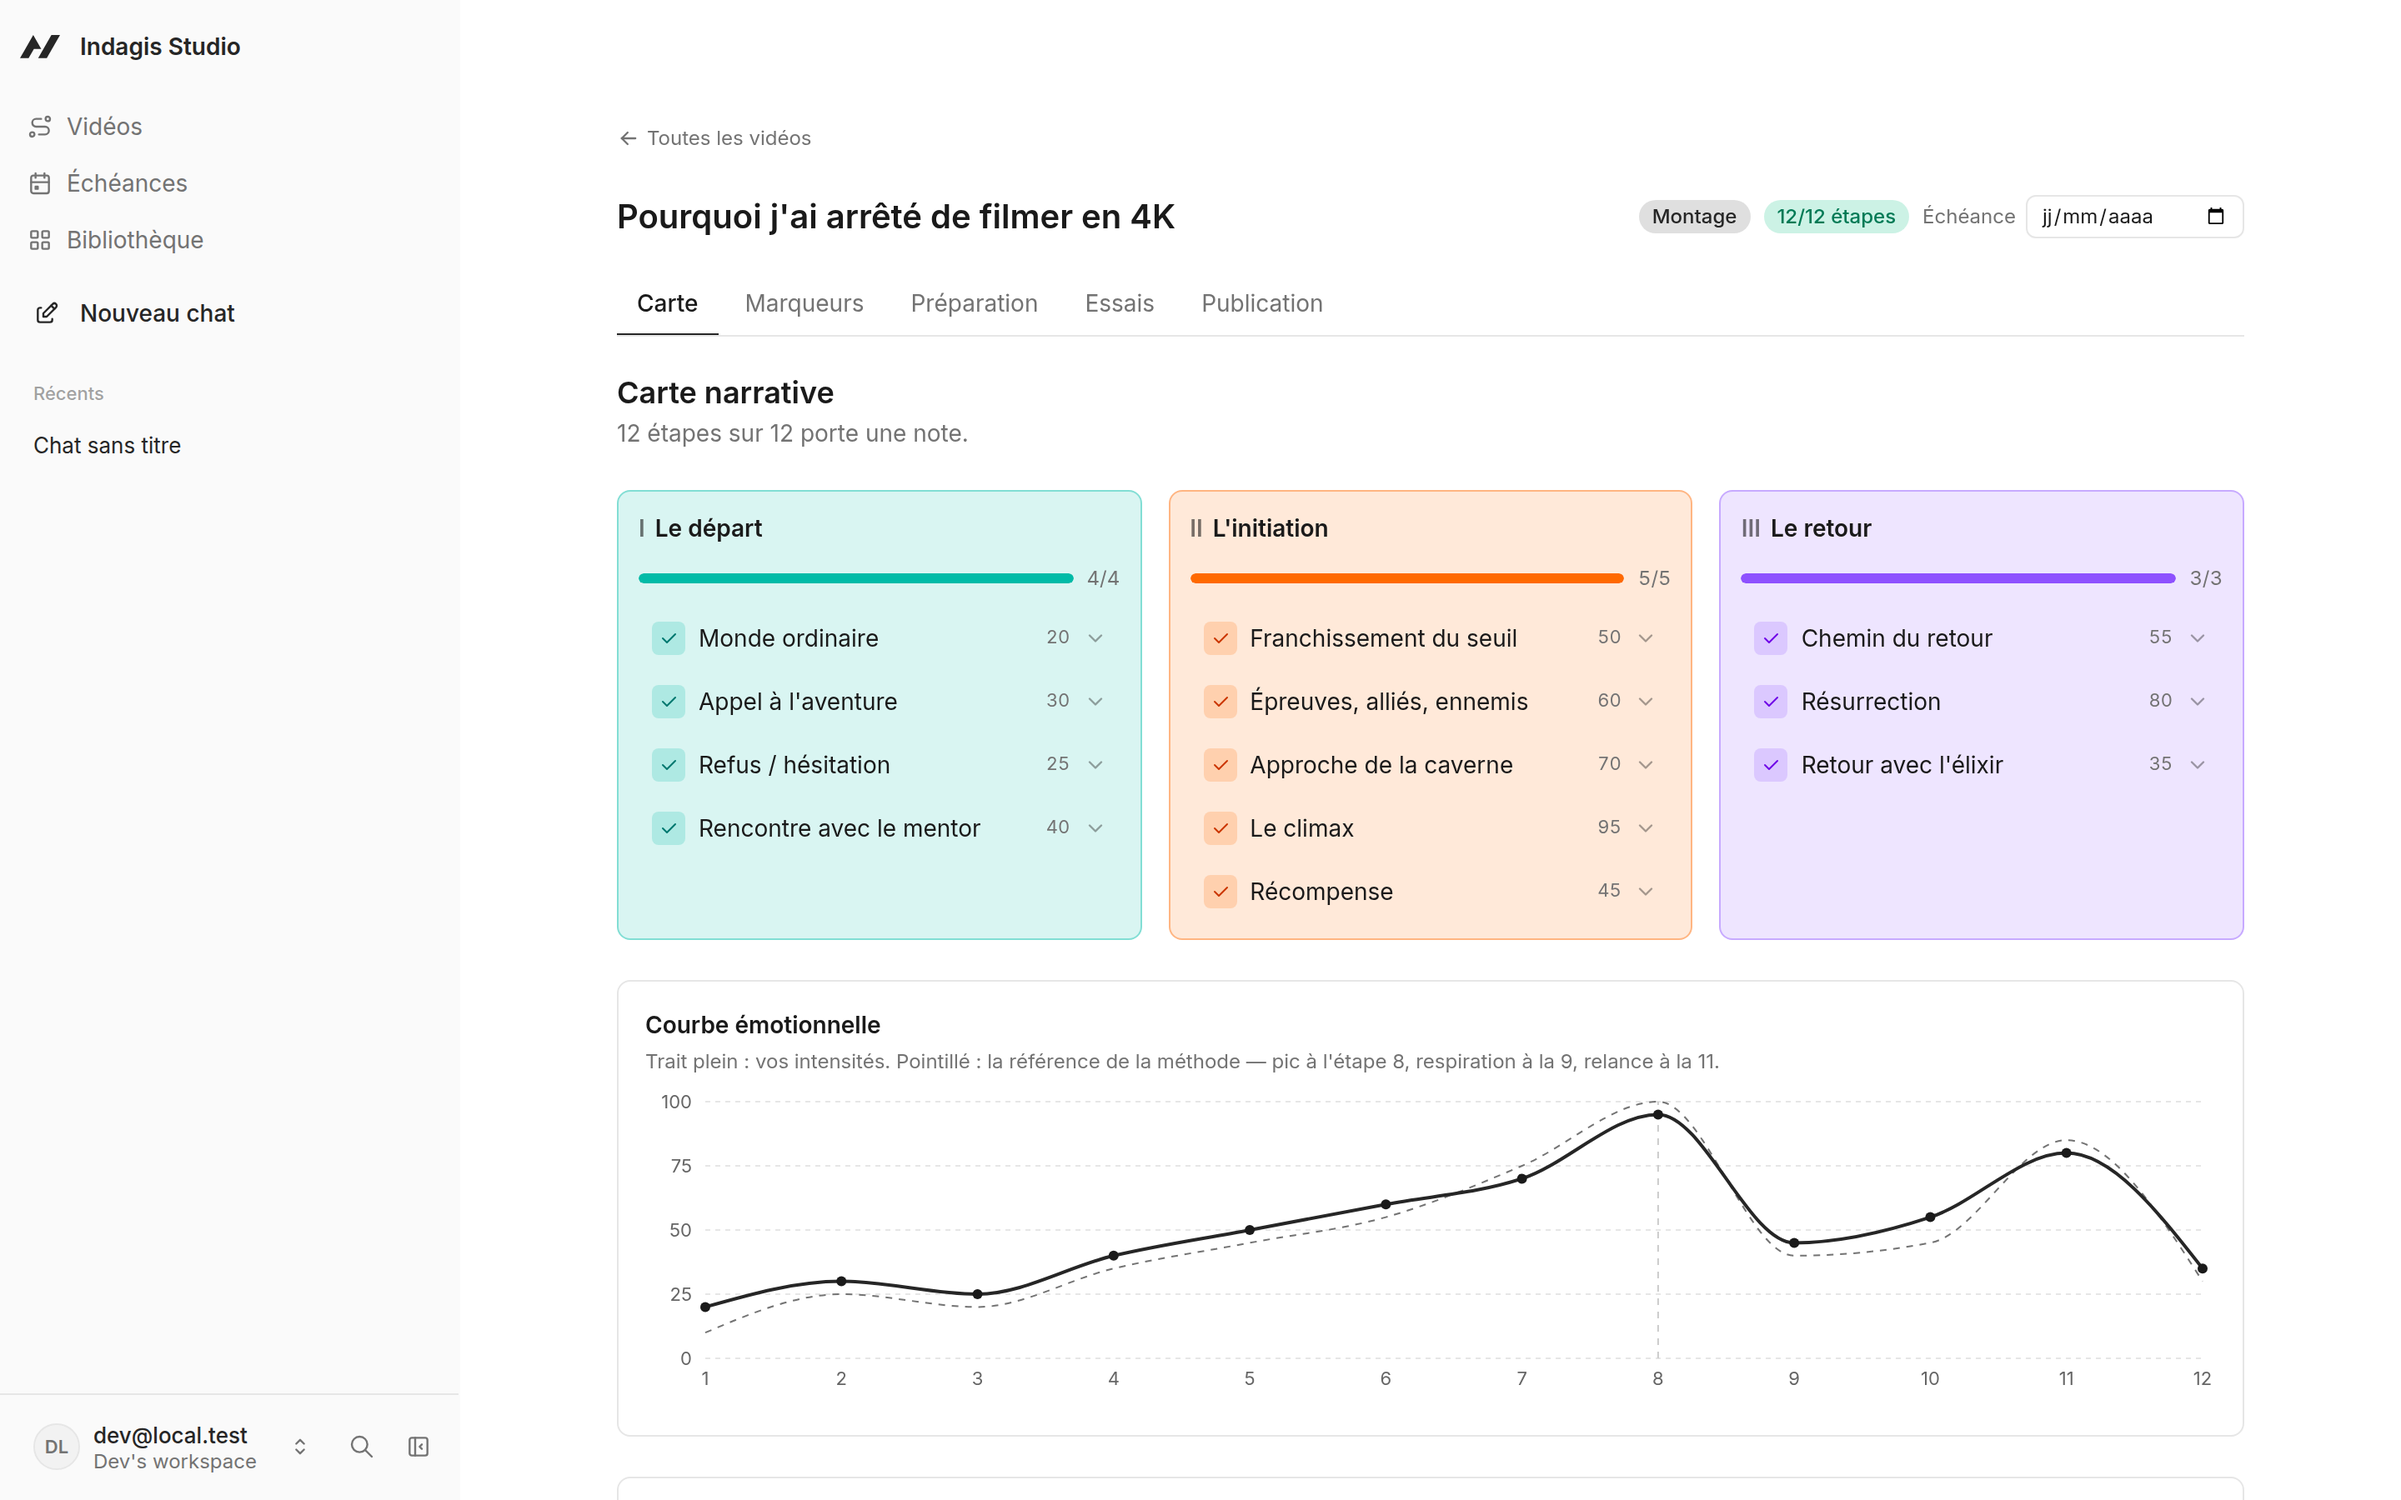
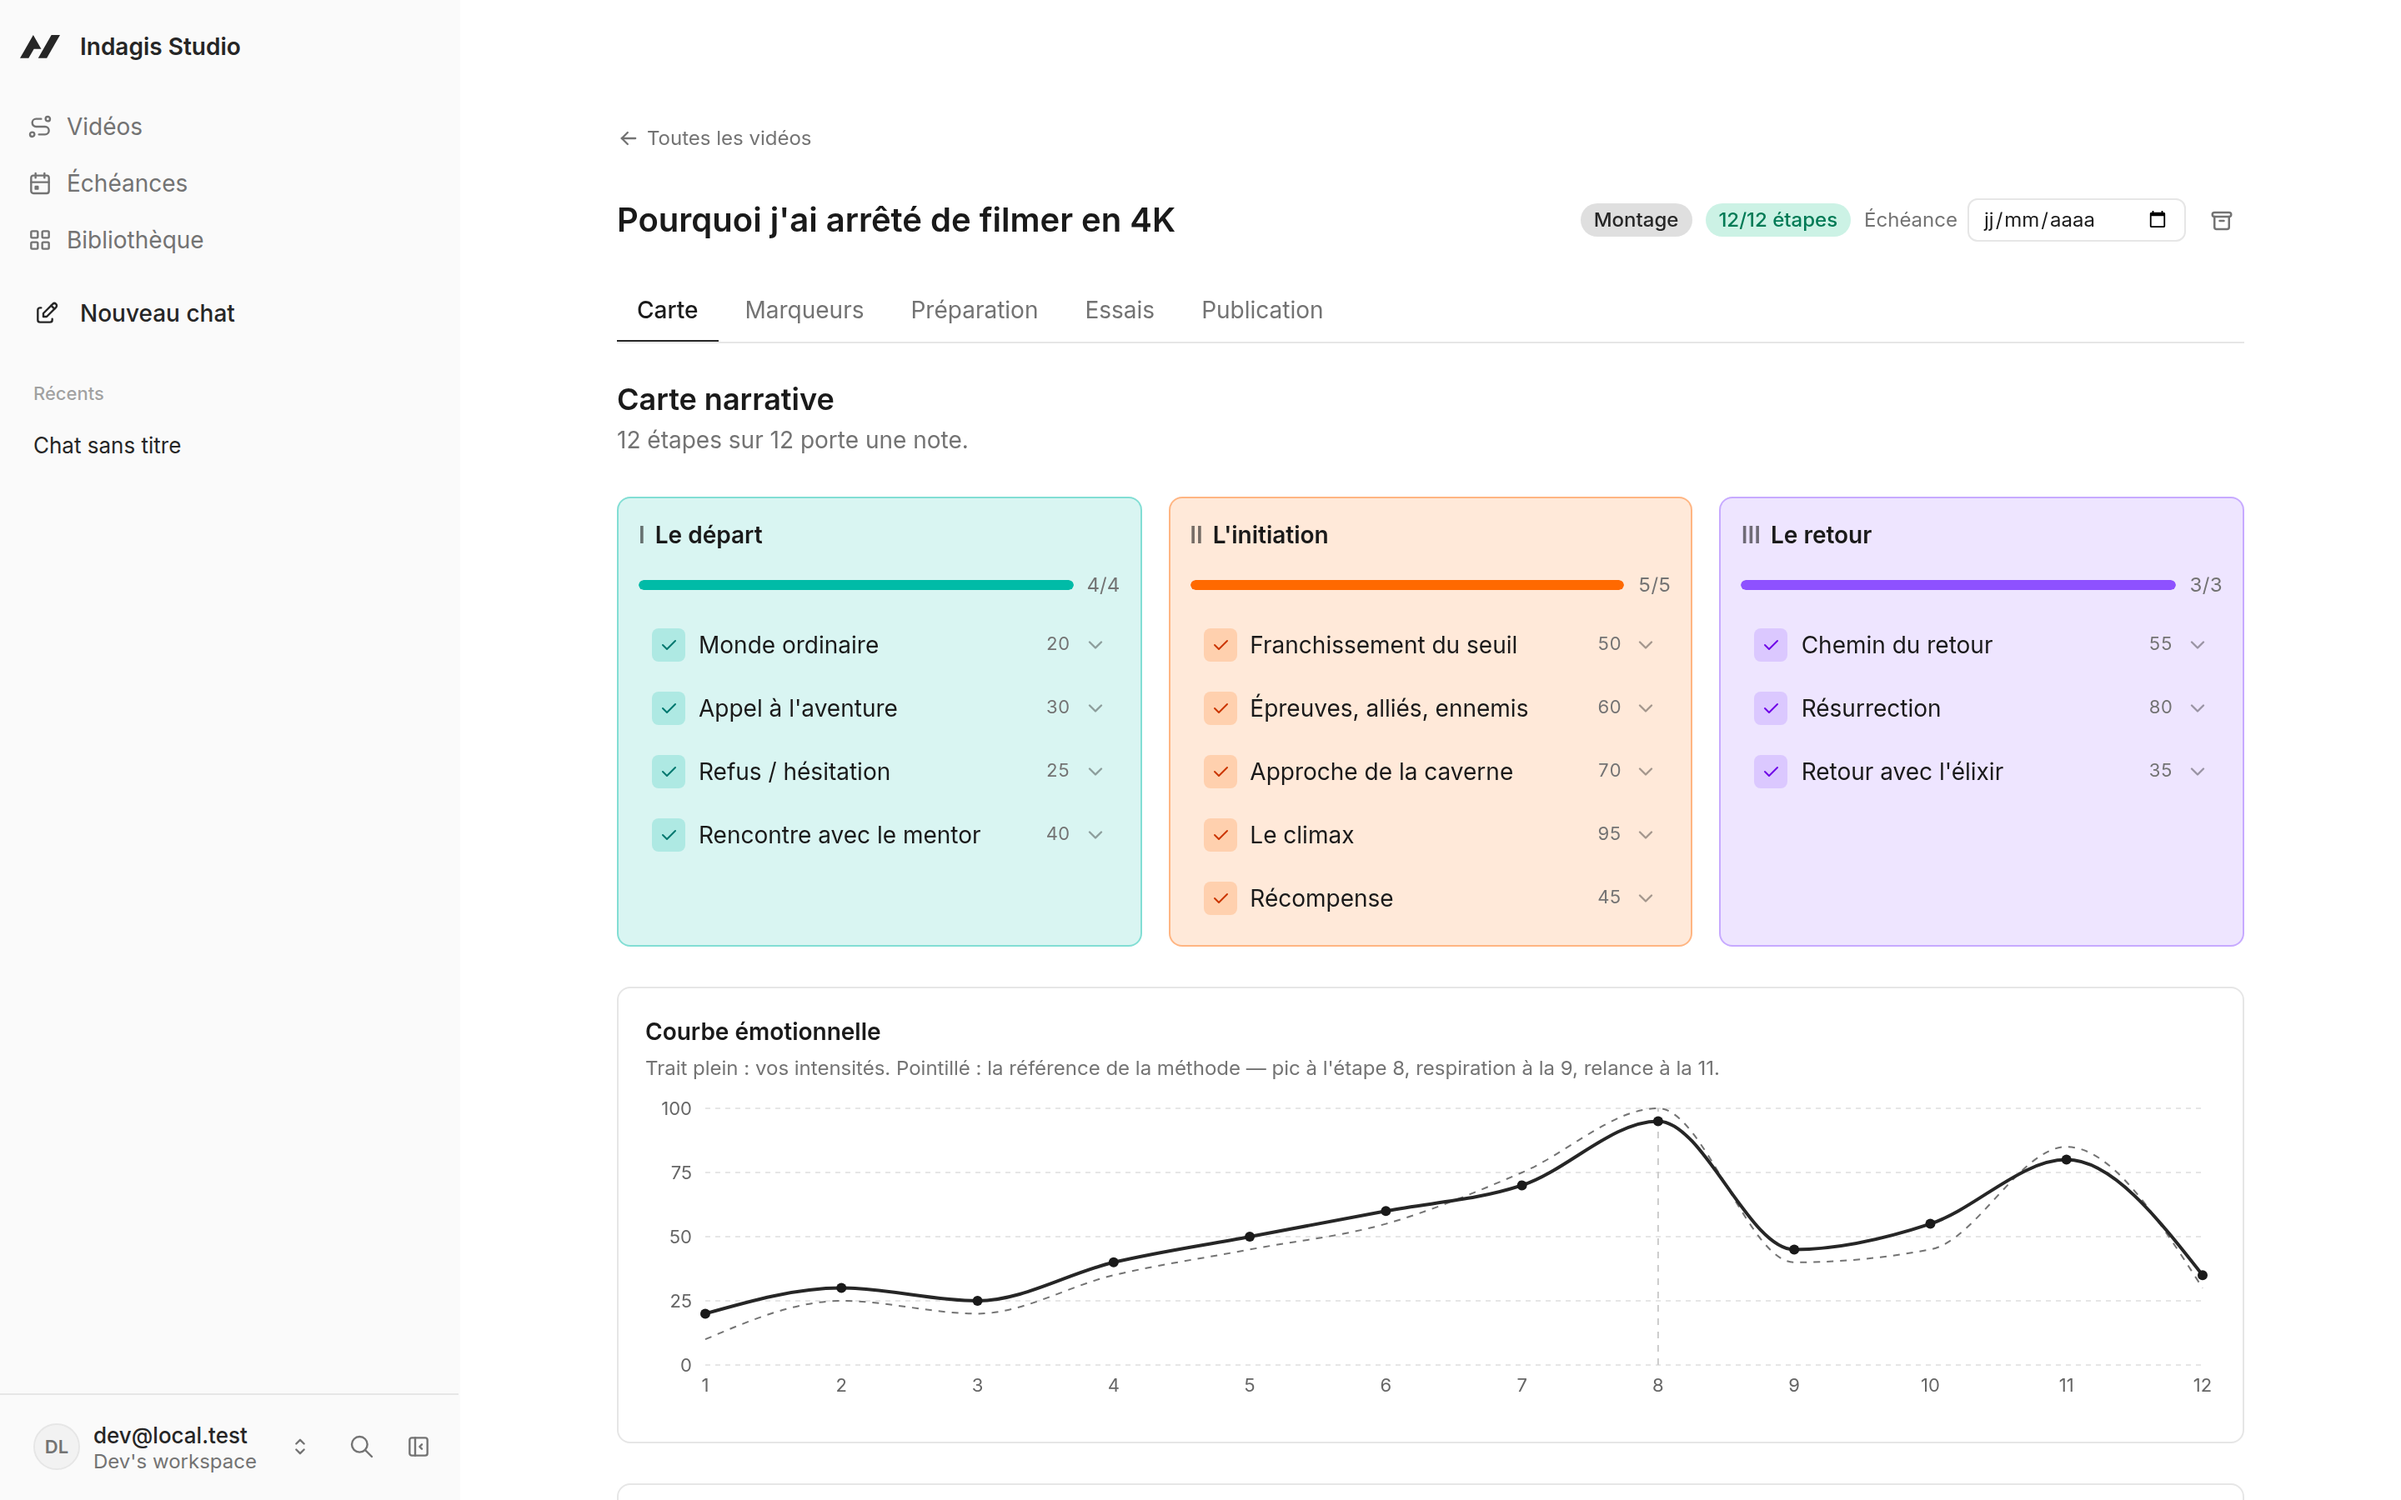
feat(ux): l'accueil mène aux vidéos, pas à un chat vide
Le gabarit Agent-Native redirige la racine vers une conversation vide. Pour cette
application, c'était le mauvais premier écran : un monteur qui découvre Studio
tombait sur un champ de saisie réclamant une clé d'API, et ne voyait jamais la
carte narrative — c'est-à-dire le produit.

`/` mène désormais à `/videos`. L'agent reste à un clic, dans la barre latérale et
par le bouton d'ouverture du panneau. Les imports devenus morts sont retirés.

Changement volontairement réversible, et c'est écrit dans le fichier : remettre
`/chat/${threadId}` suffit à revenir au comportement du gabarit. Je le signale
parce que c'est le seul changement de ce lot qui relève du goût produit plutôt que
de la correction d'un défaut.

Vérifié : `/` aboutit à `/videos`, titre « Vos vidéos », agent toujours joignable.

Captures régénérées, puisque la liste des vidéos est maintenant le premier écran.
Au passage, une vidéo de test nommée « gg » a été archivée — depuis l'interface,
ce qui a servi de test de bout en bout au bouton d'archivage ajouté juste avant :
clic, confirmation, redirection, disparition de la liste. L'archivage est logique
et réversible.

Un point relevé en chemin, non traité ici : le CLI et le navigateur ne voient pas
le même jeu de vidéos. `pnpm action list-videos` en renvoie une là où l'écran en
affiche trois. Piste la plus probable — une portée `orgId` différente entre la
session de développement du navigateur et celle de la CLI. À vérifier séparément.
[…]

diff --git a/app/routes/home.tsx b/app/routes/home.tsx
@@ -1,9 +1,7 @@
-import { markAgentChatHomeHandoff } from "@agent-native/toolkit/app/chat/agentkit-chat/rail";
 import { appPath } from "@agent-native/core/client/api-path";
-import { useEffect, useRef, useState } from "react";
+import { useEffect, useRef } from "react";
 
 import { APP_TITLE } from "@/lib/app-config";
-import { getChatHomeThreadId } from "@/lib/chat-home-thread";
 
 const SEO_TITLE = `${APP_TITLE} — structurer le récit d'un montage vidéo`;
 const SEO_DESCRIPTION =
@@ -25,21 +23,31 @@ export function meta() {
   ];
 }
 
+/**
+ * L'accueil mène aux vidéos, pas au chat.
+ *
+ * Le gabarit Agent-Native ouvre sur une conversation vide. Pour cette application,
+ * c'était le mauvais premier écran : un monteur qui découvre Studio tombait sur un
+ * champ de saisie réclamant une clé d'API, et ne voyait jamais la carte narrative —
+ * c'est-à-dire le produit. L'agent reste à un clic, dans la barre latérale et par le
+ * bouton d'ouverture du panneau.
+ *
+ * Changement volontairement réversible : remettre `/chat/${threadId}` ci-dessous suffit
+ * à revenir au comportement du gabarit.
+ */
 export default function ChatRoute() {
-  const [threadId] = useState(getChatHomeThreadId);
-  const handoffStartedRef = useRef(false);
+  const redirectedRef = useRef(false);
 
   useEffect(() => {
-    if (handoffStartedRef.current) return;
-    handoffStartedRef.current = true;
-    markAgentChatHomeHandoff("chat");
+    if (redirectedRef.current) return;
+    redirectedRef.current = true;
     try {
-      window.location.replace(appPath(`/chat/${encodeURIComponent(threadId)}`));
+      window.location.replace(appPath("/videos"));
     } catch (error) {
-      handoffStartedRef.current = false;
+      redirectedRef.current = false;
       throw error;
     }
-  }, [threadId]);
+  }, []);
 
   return null;
 }
